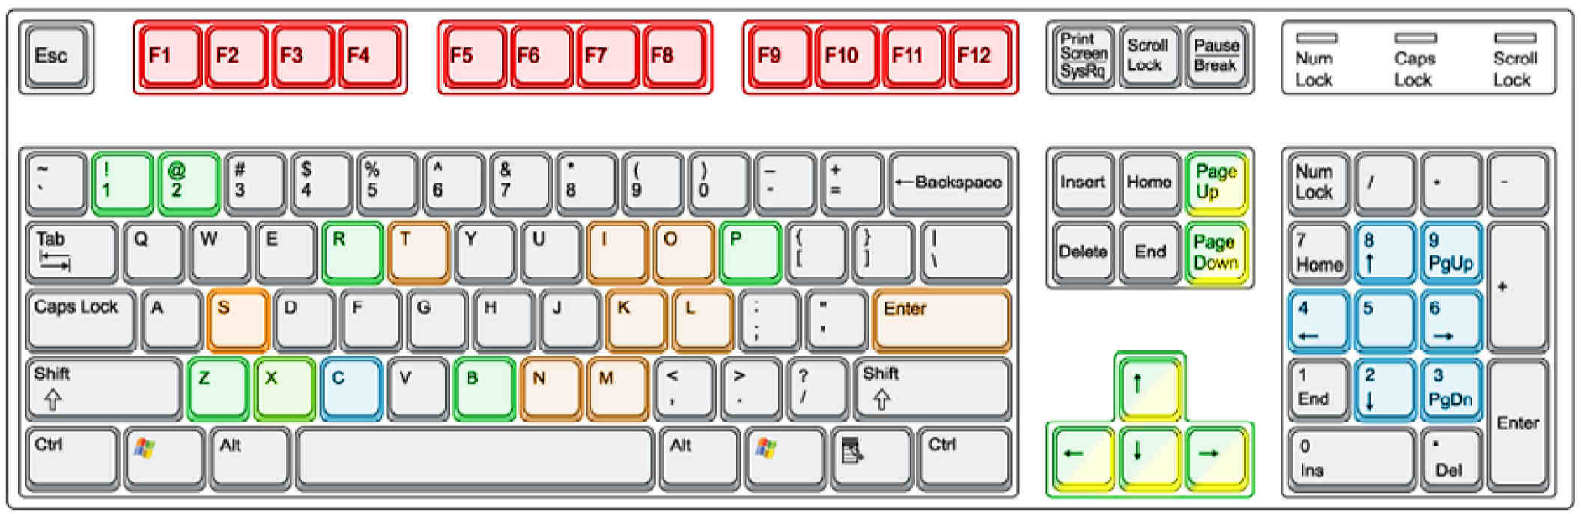
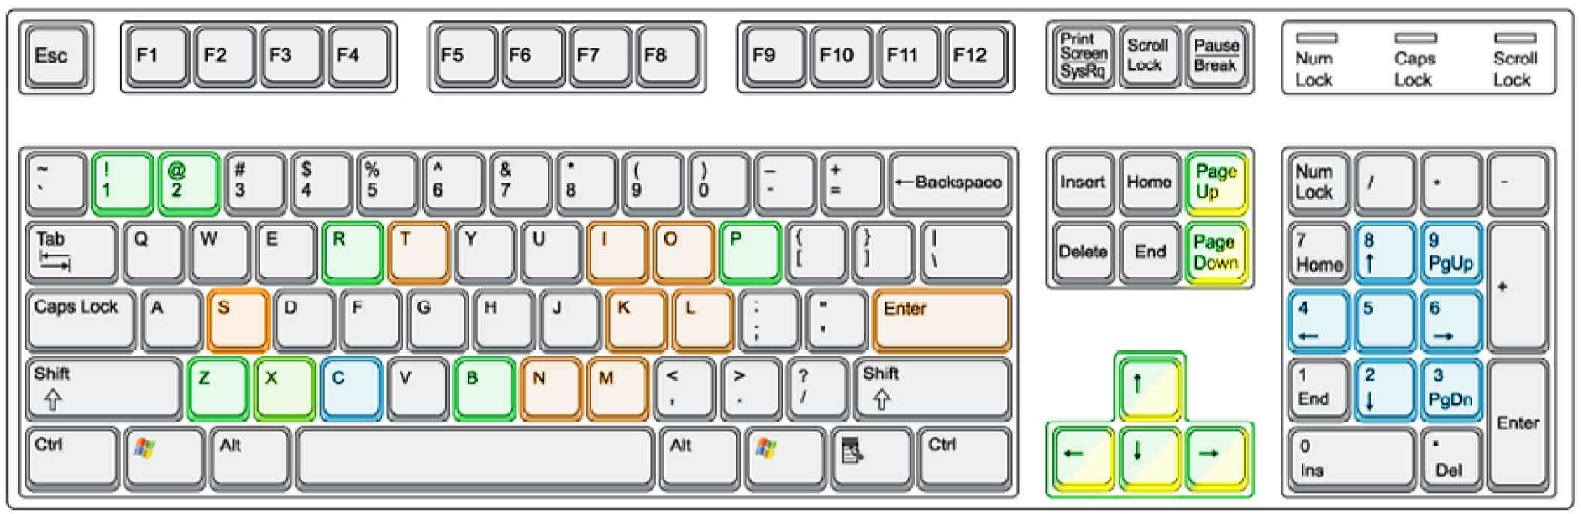
[Controls and configuration] Updated keyboard layout

Changed region(s): [[0.062, 0.0311, 0.6509, 0.1868]]

diff --git a/gameplay/controls-config.md b/gameplay/controls-config.md
@@ -17,72 +17,102 @@ Input is configured by editing configuration file [input.map](#config-file-input
 
 # Keyboard layout
 
-## General keys
+<img src="/images/input-map-general.png" alt="General keyboard layout" width="600"/>
 
-![](/images/input-map-general.png) 
+## General controls 
 
-<table style="color: #ab7e3a; display: inline-block; vertical-align: top;">
-    <tr><th>Misc</th><th>Key</th></tr>
-
-    <tr><td>Enter or exit truck</td><td>ENTER   </td></tr>
-    <tr><td>Quit Game          </td><td>ESC     </td></tr>
-    <tr><td>Toggle Statistics  </td><td>T       </td></tr>
+<table style="display: inline-block; vertical-align: top;">
+	<tr bgcolor="#E5A36C"><th style="color: #000000">General</th><th style="color: #000000">Key</th></tr>
+    <tr><td>Pause game            </td><td>ESC</td></tr>
+    <tr><td>Quit game            </td><td>ALT+F4</td></tr>
+	<tr><td>Spawn new vehicle</td><td>CTRL+G</td></tr>
+    <tr><td>Enter or exit vehicle</td><td>ENTER</td></tr>
+    <tr><td>Reset vehicle       </td><td>I    </td></tr>
+    <tr><td>Reset vehicle in place</td><td>BACKSPACE</td></tr>
+    <tr><td>View vehicle statistics </td><td>T</td></tr>
+    <tr><td>View vehicle commands</td><td>CTRL+T</td></tr>
     <tr><td>Screenshot         </td><td>PRINTSCR</td></tr>
-    <tr><td>chat (Multiplayer) </td><td>Y       </td></tr>
+    <tr><td>Chat (Multiplayer) </td><td>Y</td></tr>
+    <tr><td>Toggle HUD          </td><td>U    </td></tr>
+    <tr><td>Toggle soft reset mode</td><td>APOSTROPHE</td></tr>
+    <tr><td>Toggle limited camera movement</td><td>SHIFT+SPACE</td></tr>
+    <tr><td>Adjust simulation speed</td><td>CTRL+= / SHIFT+= </td></tr>
+    <tr><td>Switch between vehicles </td><td>CTRL+RBRACKET / CTRL+LBRACKET </td></tr>
+    <tr><td>Remove current vehicle</td><td>CTRL+Del</td></tr>
+    <tr><td>Respawn last vehicle</td><td>CTRL+.(period)</td></tr>
 </table>
 
-<table style="color: #127220; display: inline-block; vertical-align: top;">
-    <tr><th>Character control</th><th>Key</th></tr>
+<br>
 
+<table style="display: inline-block; vertical-align: top;">
+    <tr bgcolor="#5FAC5E"><th style="color: #000000">Character</th><th style="color: #000000">Key</th></tr>
     <tr><td>Jump          </td><td>SPACE   </td></tr>
-    <tr><td>Turn Right    </td><td>RIGHT   </td></tr>
-    <tr><td>Turn Left     </td><td>LEFT    </td></tr>
-    <tr><td>Walk Fordwards</td><td>UP      </td></tr>
-    <tr><td>Walk Backwards</td><td>DOWN    </td></tr>
+    <tr><td>Turn right    </td><td>RIGHT   </td></tr>
+    <tr><td>Turn left     </td><td>LEFT    </td></tr>
+    <tr><td>Walk fordwards</td><td>UP      </td></tr>
+    <tr><td>Walk backwards</td><td>DOWN    </td></tr>
     <tr><td>Run           </td><td>SHIFT+UP</td></tr>
 </table>
 
-<table style="display: inline-block; vertical-align: top;">
-    <tr>
-        <th><span style="color: #6692b3">Camera</span> / <span style="color: #ced925">Caelum Sky</span></th>
-        <th>Key</th>
-    </tr>
-    <!--camera-->
-    <tr><td style="color: #6692b3">Change        </td><td style="color: #6692b3">C                     </td></tr>
-    <tr><td style="color: #6692b3">Control camera</td><td style="color: #6692b3">1, 2, 3, 4, 5, 6, 8, 9</td></tr>
-    <tr><td style="color: #6692b3">Free camera   </td><td style="color: #6692b3">SHIFT+C               </td></tr>
-    <tr><td style="color: #6692b3">Fixed camera   </td><td style="color: #6692b3">ALT+C               </td></tr>
-    <!--caelum-->
-    <tr><td style="color: #ced925">Increase time</td><td style="color: #ced925">+</td></tr>
-    <tr><td style="color: #ced925">Decrease time</td><td style="color: #ced925">-</td></tr>
-    <tr><td style="color: #127220">Increase time change rate</td><td style="color: #127220">Shift (Use in combination with Inc./Dec. time keys)</td></tr>
-</table>
-
-## Land vehicle keys
-
-![](/images/input-map-truck.png) 
+<br>
 
 <table style="display: inline-block; vertical-align: top;">
-    <tr><th>Drive controls</th><th>Key</th></tr>
-    
-    <!--Truck control-->
-    <tr><td style="color: #127220">Steer Left                               </td><td style="color: #127220">LEFT     </td></tr>
-    <tr><td style="color: #127220">Steer Right                              </td><td style="color: #127220">RIGHT    </td></tr>
-    <tr><td style="color: #127220">Accelerate/Brake                         </td><td style="color: #127220">UP / DOWN</td></tr>
-    <tr><td style="color: #127220">Tire Pressure +/-<br>(not for all trucks)</td><td style="color: #127220">[ ]      </td></tr>
-    
-    <!--Gear / clutch-->
-    <tr><td style="color: #ced925">Autoshift Up      </td><td style="color: #ced925">PAGE-UP  </td></tr>
-    <tr><td style="color: #ced925">Autoshift Down    </td><td style="color: #ced925">PAGE-DOWN</td></tr>
-    <tr><td style="color: #ced925">Switch Shift Modes</td><td style="color: #ced925">Q        </td></tr>
-    <tr><td style="color: #ced925">Manual Clutch     </td><td style="color: #ced925">SHIFT    </td></tr>
-    <tr><td style="color: #ced925">Shift Up          </td><td style="color: #ced925">A        </td></tr>
-    <tr><td style="color: #ced925">Shift Down        </td><td style="color: #ced925">Z        </td></tr>
+    <tr bgcolor="#74A9E1"><th style="color: #000000">Camera</th><th style="color: #000000">Key</th></tr>
+    <tr><td>Change view        </td><td>C</td></tr>
+    <tr><td>Rotate up/down     </td><td>Numpad 8 / Numpad 2</td></tr>
+    <tr><td>Rotate left/right  </td><td>Numpad 4 / Numpad 6</td></tr>
+    <tr><td>Zoom in/out        </td><td>Numpad 9 / Numpad 3</td></tr>
+    <tr><td>Zoom in/out (fast) </td><td>SHIFT+Numpad 9 / SHIFT+Numpad 3</td></tr>
+    <tr><td>Free camera   </td><td>SHIFT+C</td></tr>
+    <tr><td>Fixed camera  </td><td>ALT+C</td></tr>
 </table>
 
-<table style="color: #ab7e3a; display: inline-block; vertical-align: top;">
-    <tr><th>Misc</th><th>Key</th></tr>
+<br>
 
+<table style="display: inline-block; vertical-align: top;">
+    <tr bgcolor="#DFDD78"><th style="color: #000000">Time Adjust</th><th style="color: #000000">Key</th></tr>
+    <tr><td>Change time        </td><td>Numpad + (plus) / Numpad - (minus)</td></tr>
+    <tr><td>Change time (fast)</td><td>SHIFT+Numpad + (plus) / SHIFT+Numpad - (minus)</td></tr>
+</table>
+
+<br>
+
+<table style="display: inline-block; vertical-align: top;">
+    <tr bgcolor="#928578"><th style="color: #000000">Map</th><th style="color: #000000">Key</th></tr>
+    <tr><td>Toggle map view </td><td>TAB</td></tr>
+    <tr><td>Zoom in/out     </td><td>CTRL+TAB / SHIFT+TAB</td></tr>
+    <tr><td>Toggle alpha     </td><td>CTRL+SHIFT+TAB</td></tr>
+    <tr><td>Toggle icons     </td><td>CTRL+SHIFT+ALT+TAB</td></tr>
+</table>
+
+## Common vehicle controls
+
+<img src="/images/input-map-truck.png" alt="Vehicle keyboard layout" width="600"/>
+
+<table style="display: inline-block; vertical-align: top;">
+    <tr bgcolor="#5FAC5E"><th style="color: #000000">Basic vehicle controls</th><th>Key</th></tr>
+    <tr><td>Steer Left                               </td><td>LEFT     </td></tr>
+    <tr><td>Steer Right                              </td><td>RIGHT    </td></tr>
+    <tr><td>Accelerate/Brake                         </td><td>UP / DOWN</td></tr>
+    <tr><td>Tire Pressure<br>(not for all trucks)</td><td>RBRACKET / LBRACKET</td></tr>
+</table>
+
+<br>
+
+<table style="display: inline-block; vertical-align: top;">
+    <tr bgcolor="#DFDD78"><th style="color: #000000">Shifting</th><th>Key</th></tr>
+    <tr><td>Autoshift Up      </td><td>PGUP  </td></tr>
+    <tr><td>Autoshift Down    </td><td>PGDOWN</td></tr>
+    <tr><td>Switch Shift Modes</td><td>Q        </td></tr>
+    <tr><td>Manual Clutch     </td><td>SHIFT    </td></tr>
+    <tr><td>SHIFT Up          </td><td>A        </td></tr>
+    <tr><td>SHIFT Down        </td><td>Z        </td></tr>
+</table>
+
+<br>
+
+<table style="display: inline-block; vertical-align: top;">
+    <tr bgcolor="#E5A36C"><th style="color: #000000">Misc</th><th>Key</th></tr>
     <tr><td>Truck Horn        </td><td>H     </td></tr>
     <tr><td>Parking Brake     </td><td>P     </td></tr>
     <tr><td>Blinker Left      </td><td>COMMA </td></tr>
@@ -97,14 +127,14 @@ Input is configured by editing configuration file [input.map](#config-file-input
     <tr><td>Toggle Lights     </td><td>N     </td></tr>
     <tr><td>Toggle beacons    </td><td>M     </td></tr>
     <tr><td>Rescue Truck      </td><td>R     </td></tr>
-    <tr><td>Toggle HUD        </td><td>U     </td></tr>
     <tr><td>Enter / Exit truck</td><td>ENTER </td></tr>
     <tr><td>particle Cannon   </td><td>G     </td></tr>
 </table>
 
-<table style="color: red; display: inline-block; vertical-align: top;">
-    <tr><th>Function keys</th><th>Combo</th></tr>
-    
+<br>
+
+<table style="display: inline-block; vertical-align: top;">
+    <tr bgcolor="#EC3F41"><th style="color: #000000">Function keys</th><th>Combo</th></tr>
     <tr><td>COMMANDS 01</td><td>F1</td></tr>
     <tr><td>...</td><td>...</td></tr>
     <tr><td>COMMANDS 12</td><td>F12</td></tr>
@@ -132,13 +162,12 @@ Input is configured by editing configuration file [input.map](#config-file-input
 	<tr><td>COMMANDS 84</td><td>CTRL + SHIFT + ALT + F12</td></tr>	
 </table>
 
-## Aerial and marine keys
+## Aerial and marine controls
 
-![](/images/input-map-aerial-and-marine.png)
+<img src="/images/input-map-aerial-and-marine.png" alt="Vehicle keyboard layout" width="600"/>
 
-<table style="color: #127220; display: inline-block; vertical-align: top;">
-    <tr><th>Airplane controls</th><th>Key</th></tr>
-
+<table style="display: inline-block; vertical-align: top;">
+    <tr bgcolor="#5FAC5E"><th style="color: #000000">Airplane controls</th><th>Key</th></tr>
     <tr><td>Steer Left   </td><td>LEFT              </td></tr>
     <tr><td>Steer Right  </td><td>RIGHT             </td></tr>
     <tr><td>Elevator Up  </td><td>UP                </td></tr>
@@ -148,8 +177,8 @@ Input is configured by editing configuration file [input.map](#config-file-input
     <tr><td>Brake        </td><td>B                 </td></tr>
     <tr><td>Parking Brake</td><td>P                 </td></tr>
     <tr><td>Reverse      </td><td>R                 </td></tr>
-    <tr><td>Less Flaps   </td><td>1                 </td></tr>
-    <tr><td>More Flaps   </td><td>2                 </td></tr>
+    <tr><td>Less Flaps*  </td><td>1                 </td></tr>
+    <tr><td>More Flaps*  </td><td>2                 </td></tr>
     <tr><td>Less Airbrakes*</td><td>3               </td></tr>
     <tr><td>More Airbrakes*</td><td>4               </td></tr>
     <tr><td>Throttle Down</td><td>PAGE-DOWN         </td></tr>
@@ -157,13 +186,8 @@ Input is configured by editing configuration file [input.map](#config-file-input
     <tr><td>Start Engines</td><td>CLICK BUTTONS "ON"</td></tr>
 </table>
 
-`*` Depending on the plane setup
-
-It is recommended to use: `CTRL+Home` to start all engine of a plane and `CTRL+PAGE-UP` to full throttle all engines
-because some planes could have more than 4 engines and you couldn't control them with your mouse.
-
-<table style="color: #ced925; display: inline-block; vertical-align: top;">
-    <tr><th>Boat controls</th><th>Key</th></tr>
+<table style="display: inline-block; vertical-align: top;">
+    <tr bgcolor="#E5A36C"><th style="color: #000000">Boat controls</th><th>Key</th></tr>
 
     <tr><td>Throttle Down  </td><td>DOWN   </td></tr>
     <tr><td>Throttle Up    </td><td>UP    </td></tr>
@@ -173,24 +197,10 @@ because some planes could have more than 4 engines and you couldn't control them
     <tr><td>Center Throttle</td><td>PGDOWN   </td></tr>
 </table>
 
-<table style="color: #ab7e3a; display: inline-block; vertical-align: top;">
-    <tr><th>Misc</th><th>Key</th></tr>
+`*` Depending on the plane setup
 
-    <tr><td>Parking Brake       </td><td>P    </td></tr>
-    <tr><td>Lock Load           </td><td>L    </td></tr>
-    <tr><td>Secure Load         </td><td>O    </td></tr>
-    <tr><td>Reset Vehicle       </td><td>I    </td></tr>
-    <tr><td>Reset Vehicle In Place  </td><td>BACKSPACE</td></tr>
-    <tr><td>Show Skeleton       </td><td>K    </td></tr>
-    <tr><td>Toggle Lights       </td><td>N    </td></tr>
-    <tr><td>Toggle beacons      </td><td>M    </td></tr>
-    <tr><td>Toggle HUD          </td><td>U    </td></tr>
-    <tr><td>Enter / Exit vehicle</td><td>ENTER</td></tr>
-    <tr><td>Adjust Simulation Speed</td><td>Ctrl+= / Shift+= </td></tr>
-    <tr><td>Switch Between Vehicles </td><td>Ctrl+] / Ctrl+[ </td></tr>
-    <tr><td>Remove Current Vehicle</td><td>Ctrl+Del</td></tr>
-    <tr><td>Respawn Last Vehicle</td><td>Ctrl+.(period)</td></tr>
-</table>
+It is recommended to use: `CTRL+Home` to start all engine of a plane and `CTRL+PAGE-UP` to full throttle all engines
+because some planes could have more than 4 engines and you couldn't control them with your mouse.
 
 # Config file 'input.map'
 
